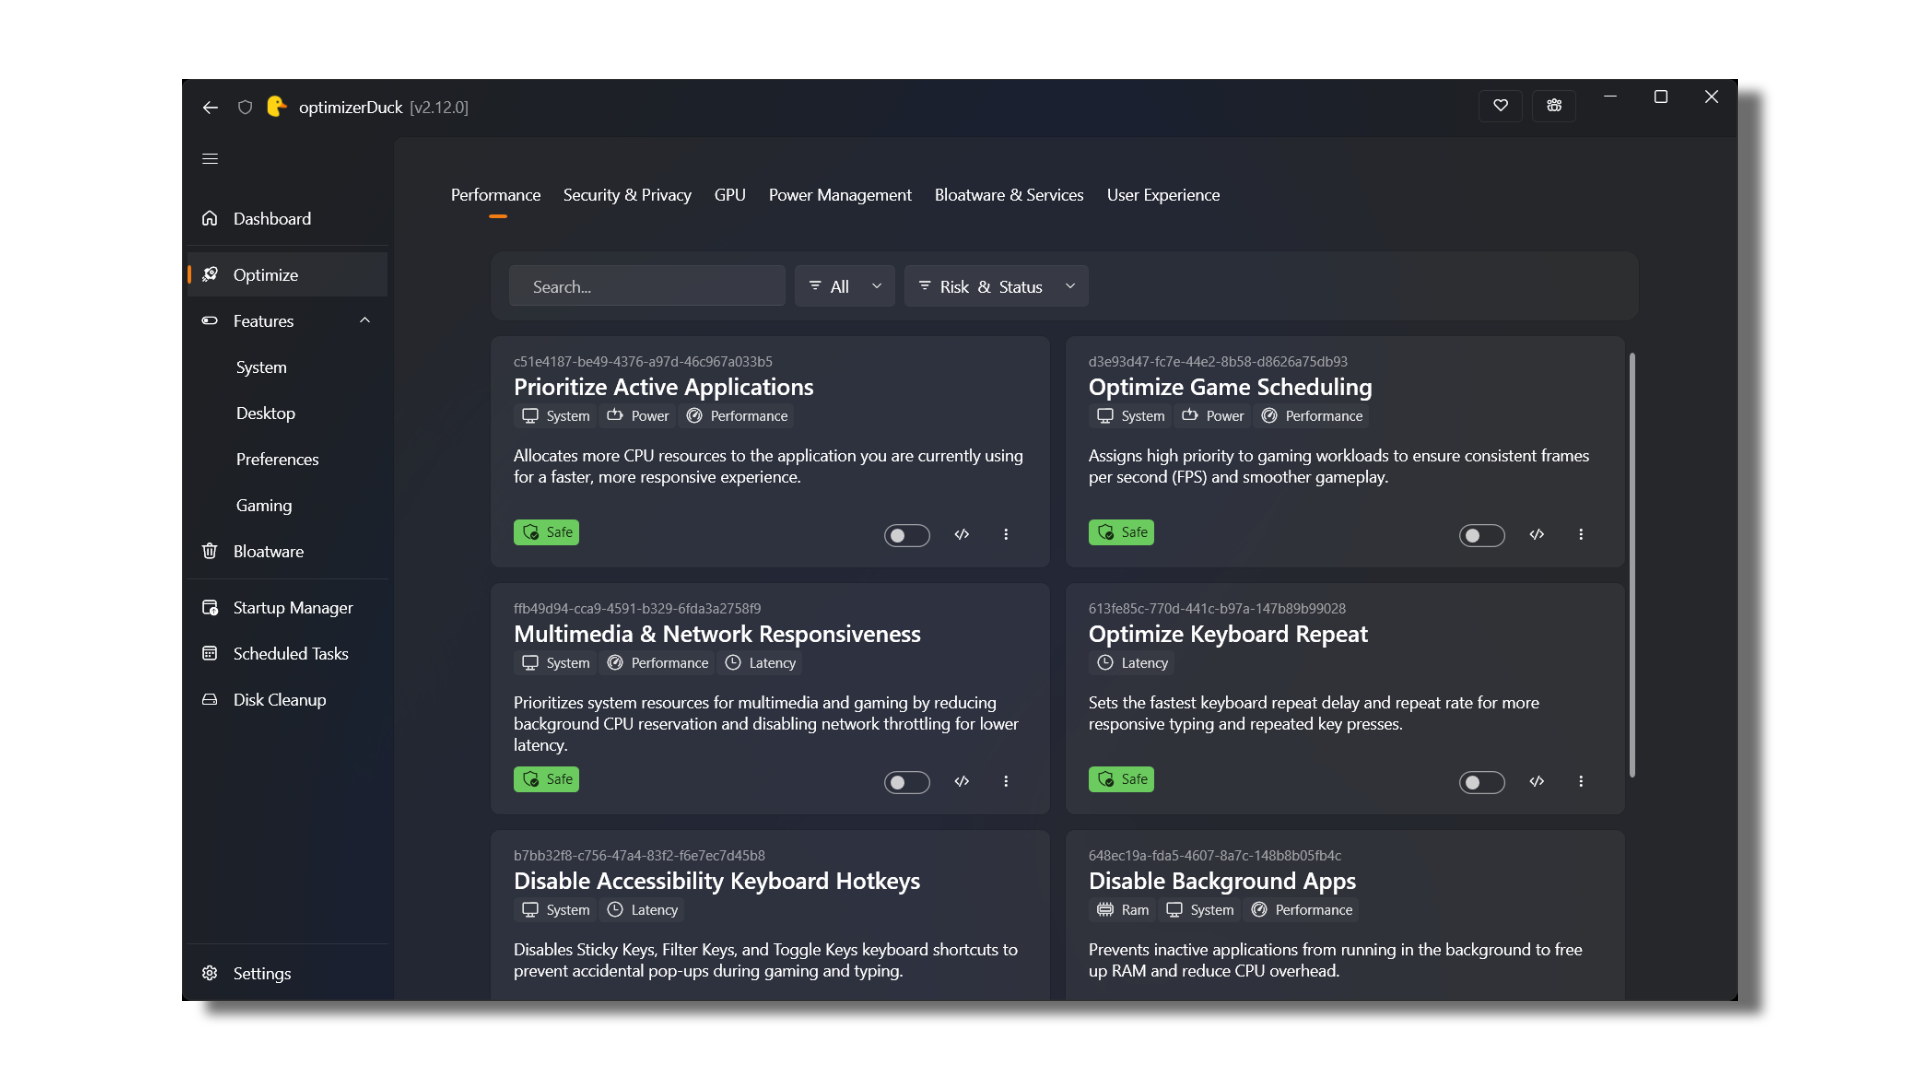
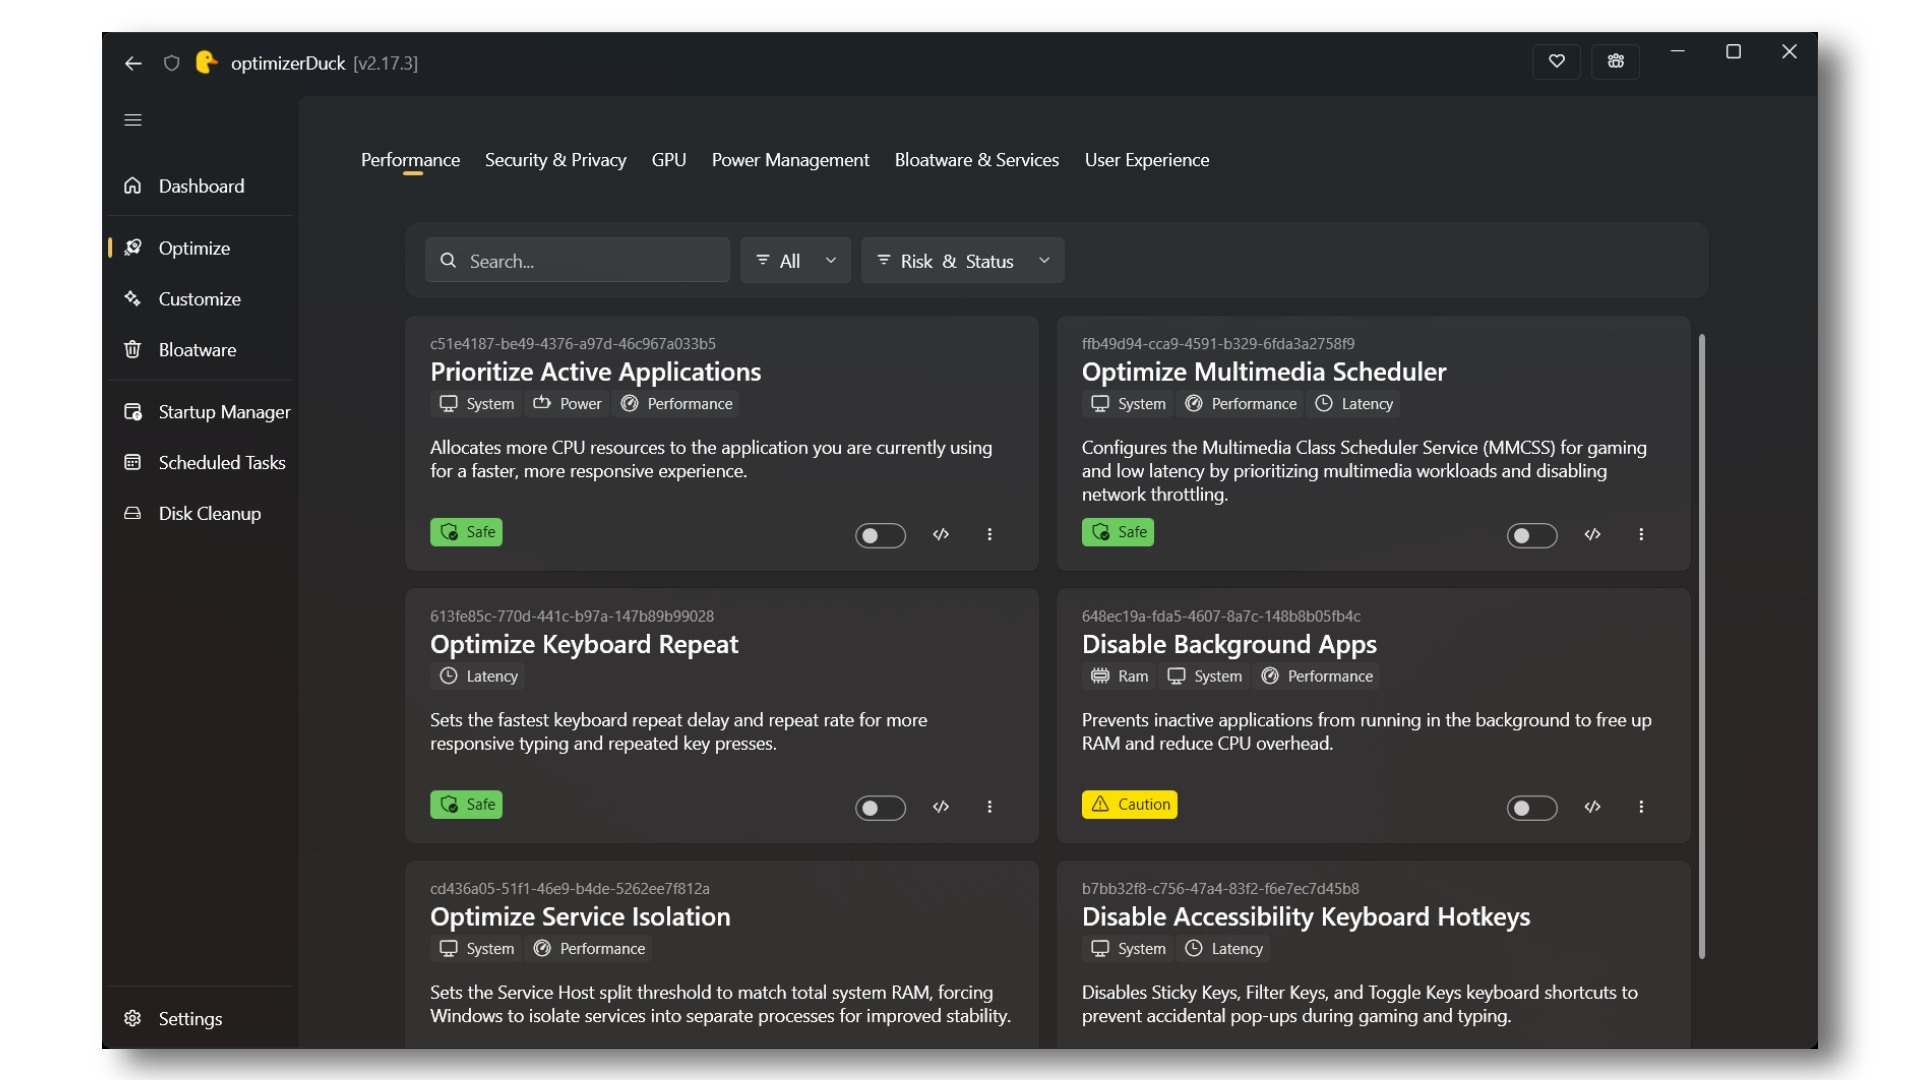
chore: update showcase app

diff --git a/optimizerDuck/UI/Pages/StartupManagerPage.xaml b/optimizerDuck/UI/Pages/StartupManagerPage.xaml
@@ -171,7 +171,6 @@
                                         Text="{Binding ViewModel.AppSearchText, UpdateSourceTrigger=PropertyChanged}" />
                                     <ComboBox
                                         SelectedIndex="{Binding ViewModel.AppSortByIndex}"
-                                        Style="{StaticResource ComboBoxStyle}"
                                         ToolTip="{ext:Loc Common.SortBy}">
                                         <ComboBoxItem HorizontalContentAlignment="Left">
                                             <Grid HorizontalAlignment="Left" ColumnDefinitions="Auto Auto">
@@ -306,7 +305,7 @@
                                                             IsChecked="{Binding IsEnabled, Mode=TwoWay}"
                                                             OffContent="{ext:Loc Common.Toggle.Off}"
                                                             OnContent="{ext:Loc Common.Toggle.On}"
-                                                            Style="{StaticResource ToggleSwitchStyle}" />
+                                                            />
                                                         <ui:SymbolIcon FontSize="16" Symbol="Open24" />
                                                     </StackPanel>
                                                 </Grid>
@@ -365,7 +364,6 @@
                                         Text="{Binding ViewModel.TaskSearchText, UpdateSourceTrigger=PropertyChanged}" />
                                     <ComboBox
                                         SelectedIndex="{Binding ViewModel.TaskSortByIndex}"
-                                        Style="{StaticResource ComboBoxStyle}"
                                         ToolTip="{ext:Loc Common.SortBy}">
                                         <ComboBoxItem HorizontalContentAlignment="Left">
                                             <Grid HorizontalAlignment="Left" ColumnDefinitions="Auto Auto">
@@ -408,7 +406,7 @@
                                         IsChecked="{Binding ViewModel.HideMicrosoftTasks, Mode=TwoWay}"
                                         OffContent="{ext:Loc StartupManager.Tasks.HideMicrosoft}"
                                         OnContent="{ext:Loc StartupManager.Tasks.HideMicrosoft}"
-                                        Style="{StaticResource ToggleSwitchStyle}" />
+                                       />
                                     <ui:Button
                                         Padding="8"
                                         VerticalAlignment="Center"
@@ -537,7 +535,7 @@
                                                         IsChecked="{Binding IsEnabled, Mode=TwoWay}"
                                                         OffContent="{ext:Loc Common.Toggle.Off}"
                                                         OnContent="{ext:Loc Common.Toggle.On}"
-                                                        Style="{StaticResource ToggleSwitchStyle}" />
+                                                        />
                                                 </StackPanel>
                                             </Grid>
                                         </Border>

diff --git a/optimizerDuck/UI/Pages/Optimize/Categories/OptimizationPage.xaml b/optimizerDuck/UI/Pages/Optimize/Categories/OptimizationPage.xaml
@@ -56,7 +56,6 @@
                     <!--  Filter by Risk  -->
                     <ComboBox
                         SelectedIndex="{Binding ViewModel.SelectedRiskFilterIndex}"
-                        Style="{StaticResource ComboBoxStyle}"
                         ToolTip="{ext:Loc Common.Filter}"
                         ToolTipService.BetweenShowDelay="160"
                         ToolTipService.Placement="Top">
@@ -104,7 +103,6 @@
                     <!--  Sort By  -->
                     <ComboBox
                         SelectedIndex="{Binding ViewModel.SelectedSortByIndex}"
-                        Style="{StaticResource ComboBoxStyle}"
                         ToolTip="{ext:Loc Common.SortBy}"
                         ToolTipService.BetweenShowDelay="160"
                         ToolTipService.Placement="Top">
@@ -361,8 +359,7 @@
                                             CommandParameter="{Binding}"
                                             Cursor="Hand"
                                             IsChecked="{Binding State.IsApplied, Mode=TwoWay}"
-                                            IsEnabled="{Binding DataContext.ViewModel.IsProcessing, RelativeSource={RelativeSource AncestorType=Page}, Converter={StaticResource InverseBooleanConverter}}"
-                                            Style="{StaticResource ToggleSwitchStyle}" />
+                                            IsEnabled="{Binding DataContext.ViewModel.IsProcessing, RelativeSource={RelativeSource AncestorType=Page}, Converter={StaticResource InverseBooleanConverter}}" />
                                         <ui:Button
                                             HorizontalAlignment="Right"
                                             VerticalAlignment="Bottom"

diff --git a/optimizerDuck/UI/Pages/ScheduledTasksPage.xaml b/optimizerDuck/UI/Pages/ScheduledTasksPage.xaml
@@ -120,7 +120,6 @@
                     <!--  Sort By  -->
                     <ComboBox
                         SelectedIndex="{Binding ViewModel.SortByIndex}"
-                        Style="{StaticResource ComboBoxStyle}"
                         ToolTip="{ext:Loc Common.SortBy}">
                         <ComboBoxItem HorizontalContentAlignment="Left">
                             <Grid HorizontalAlignment="Left" ColumnDefinitions="Auto Auto">
@@ -177,7 +176,7 @@
                         IsChecked="{Binding ViewModel.HideMicrosoftTasks, Mode=TwoWay}"
                         OffContent="{ext:Loc ScheduledTasks.HideMicrosoft}"
                         OnContent="{ext:Loc ScheduledTasks.HideMicrosoft}"
-                        Style="{StaticResource ToggleSwitchStyle}" />
+                        />
                 </WrapPanel>
             </Border>
 
@@ -406,7 +405,7 @@
                                         IsChecked="{Binding IsEnabled, Mode=TwoWay}"
                                         OffContent="{ext:Loc Common.Toggle.Off}"
                                         OnContent="{ext:Loc Common.Toggle.On}"
-                                        Style="{StaticResource ToggleSwitchStyle}" />
+                                        />
                                 </StackPanel>
                             </Grid>
                         </Border>

diff --git a/optimizerDuck/UI/Pages/BloatwarePage.xaml b/optimizerDuck/UI/Pages/BloatwarePage.xaml
@@ -111,7 +111,6 @@
                         <!--  Filter by Risk  -->
                         <ComboBox
                             SelectedIndex="{Binding ViewModel.SelectedRiskFilterIndex}"
-                            Style="{StaticResource ComboBoxStyle}"
                             ToolTip="{ext:Loc Common.Filter}"
                             ToolTipService.BetweenShowDelay="160"
                             ToolTipService.Placement="Top">
@@ -151,7 +150,6 @@
                         <!--  Sort By  -->
                         <ComboBox
                             SelectedIndex="{Binding ViewModel.SelectedSortByIndex}"
-                            Style="{StaticResource ComboBoxStyle}"
                             ToolTip="{ext:Loc Common.SortBy}"
                             ToolTipService.BetweenShowDelay="160"
                             ToolTipService.Placement="Top">

diff --git a/optimizerDuck/UI/Pages/Customize/Categories/CustomizeCategoryPage.xaml b/optimizerDuck/UI/Pages/Customize/Categories/CustomizeCategoryPage.xaml
@@ -82,7 +82,6 @@
 
                 <ComboBox
                     SelectedIndex="{Binding ViewModel.SelectedSortByIndex}"
-                    Style="{StaticResource ComboBoxStyle}"
                     ToolTip="{ext:Loc Common.SortBy}"
                     ToolTipService.BetweenShowDelay="160"
                     ToolTipService.Placement="Top">
@@ -215,7 +214,6 @@
                                                     IsChecked="{Binding IsEnabled, Mode=OneWay, UpdateSourceTrigger=PropertyChanged}"
                                                     OffContent="{ext:Loc Common.Toggle.Off}"
                                                     OnContent="{ext:Loc Common.Toggle.On}"
-                                                    Style="{StaticResource ToggleSwitchStyle}"
                                                     Visibility="{Binding ControlType, Converter={StaticResource EqualityToVisibilityConverter}, ConverterParameter={x:Static models:CustomizeControlType.Toggle}}" />
                                                 <!--  Dropdown Control  -->
                                                 <ComboBox

diff --git a/optimizerDuck/UI/Pages/DiskCleanupPage.xaml b/optimizerDuck/UI/Pages/DiskCleanupPage.xaml
@@ -107,7 +107,6 @@
                         <ComboBox
                             Cursor="Hand"
                             SelectedIndex="{Binding ViewModel.SelectedSortByIndex}"
-                            Style="{StaticResource ComboBoxStyle}"
                             ToolTip="{ext:Loc Common.SortBy}">
                             <ComboBoxItem HorizontalContentAlignment="Left">
                                 <StackPanel HorizontalAlignment="Left" Orientation="Horizontal">